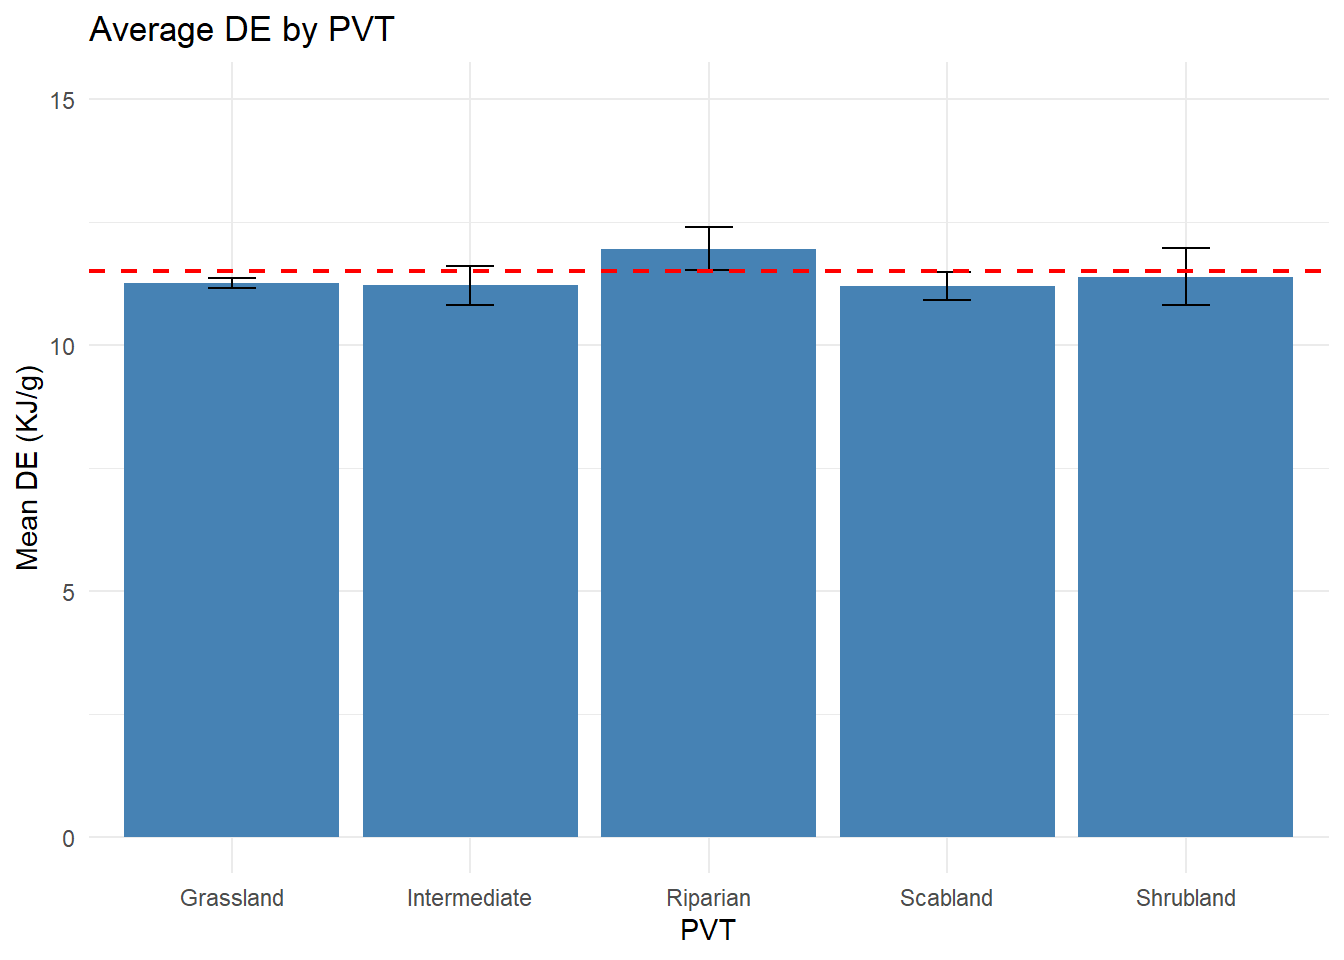
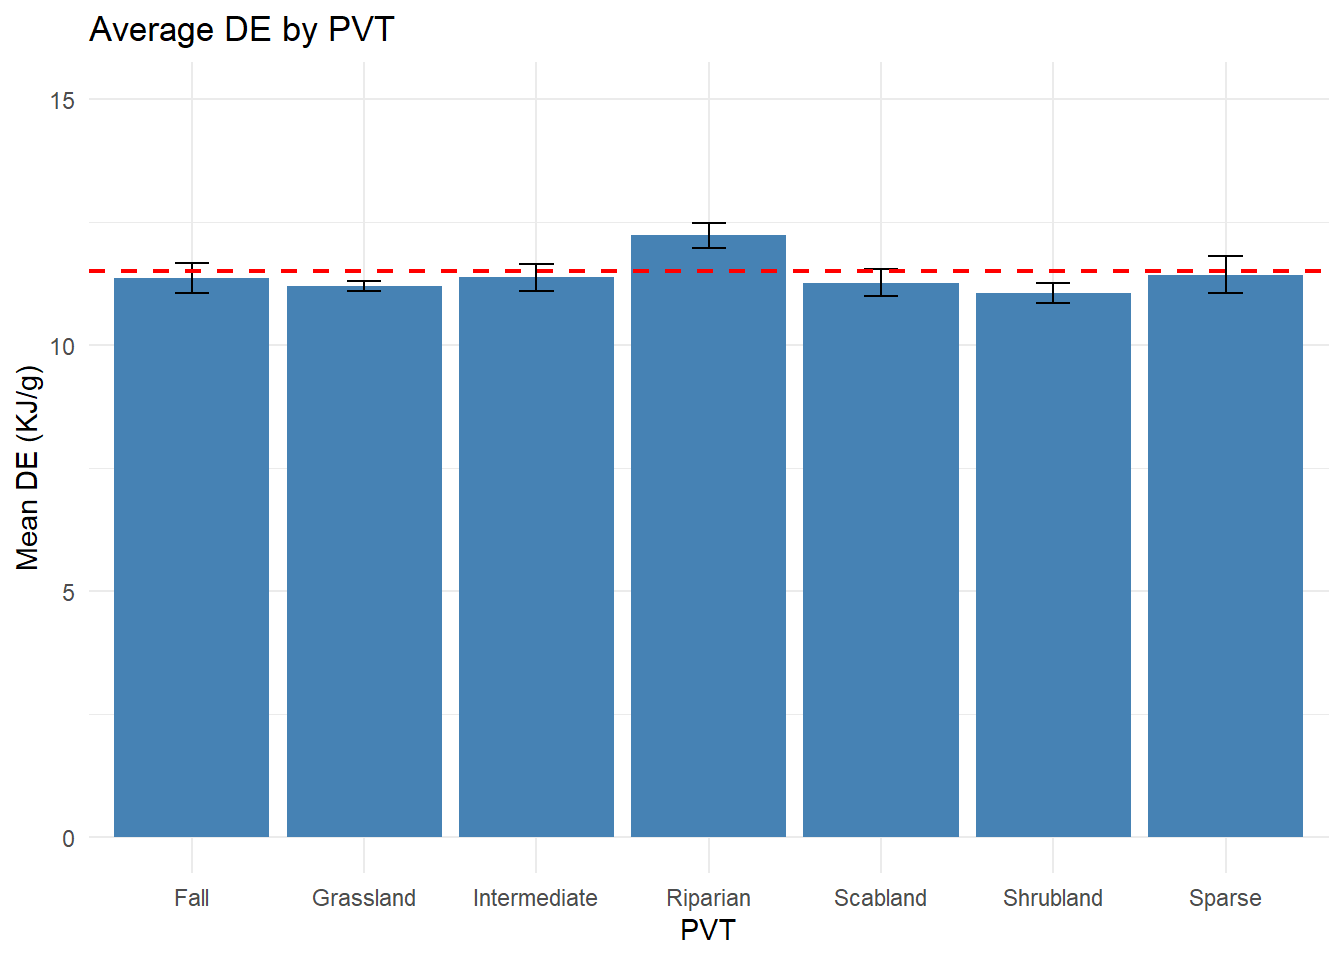
updated with 2025 data

diff --git a/docs/posts/post-with-code/suitable.biomass.plots.html b/docs/posts/post-with-code/suitable.biomass.plots.html
@@ -188,10 +188,10 @@ pre > code.sourceCode > span > a:first-child::before { text-decoration: underlin
 <span id="cb1-3"><a href="#cb1-3" aria-hidden="true" tabindex="-1"></a><span class="fu">library</span>(tidyverse)</span>
 <span id="cb1-4"><a href="#cb1-4" aria-hidden="true" tabindex="-1"></a></span>
 <span id="cb1-5"><a href="#cb1-5" aria-hidden="true" tabindex="-1"></a></span>
-<span id="cb1-6"><a href="#cb1-6" aria-hidden="true" tabindex="-1"></a>r <span class="ot">&lt;-</span> <span class="st">"C:/Users/Alexis Means/Documents/Project/Nutrition Sampling/R code/FRESH/processed.data/2024.results.xlsx"</span></span>
+<span id="cb1-6"><a href="#cb1-6" aria-hidden="true" tabindex="-1"></a>r <span class="ot">&lt;-</span> <span class="st">"C:/Users/Alexis Means/Documents/Project/Nutrition Sampling/R code/FRESH/processed.data/total.results.xlsx"</span></span>
 <span id="cb1-7"><a href="#cb1-7" aria-hidden="true" tabindex="-1"></a></span>
 <span id="cb1-8"><a href="#cb1-8" aria-hidden="true" tabindex="-1"></a>plot.totals <span class="ot">&lt;-</span> <span class="fu">read_excel</span>(r, <span class="st">"Plot-Level-Summary"</span>)</span>
-<span id="cb1-9"><a href="#cb1-9" aria-hidden="true" tabindex="-1"></a>indiv.value <span class="ot">&lt;-</span> <span class="fu">read_excel</span>(r, <span class="st">"2024.Output"</span>)</span></code><button title="Copy to Clipboard" class="code-copy-button"><i class="bi"></i></button></pre></div>
+<span id="cb1-9"><a href="#cb1-9" aria-hidden="true" tabindex="-1"></a>indiv.value <span class="ot">&lt;-</span> <span class="fu">read_excel</span>(r, <span class="st">"Total.Output"</span>)</span></code><button title="Copy to Clipboard" class="code-copy-button"><i class="bi"></i></button></pre></div>
 </details>
 </div>
 <section id="scatterplots" class="level1">
@@ -204,18 +204,23 @@ pre > code.sourceCode > span > a:first-child::before { text-decoration: underlin
 <div class="sourceCode cell-code" id="cb2"><pre class="sourceCode r code-with-copy"><code class="sourceCode r"><span id="cb2-1"><a href="#cb2-1" aria-hidden="true" tabindex="-1"></a><span class="fu">library</span>(lubridate)</span>
 <span id="cb2-2"><a href="#cb2-2" aria-hidden="true" tabindex="-1"></a></span>
 <span id="cb2-3"><a href="#cb2-3" aria-hidden="true" tabindex="-1"></a>plot.totals<span class="sc">$</span>Date <span class="ot">&lt;-</span> <span class="fu">ymd</span>(plot.totals<span class="sc">$</span>Date)</span>
-<span id="cb2-4"><a href="#cb2-4" aria-hidden="true" tabindex="-1"></a></span>
-<span id="cb2-5"><a href="#cb2-5" aria-hidden="true" tabindex="-1"></a><span class="fu">ggplot</span>(plot.totals, <span class="fu">aes</span>(<span class="at">x =</span> Date, <span class="at">y =</span> SuitableBiomass)) <span class="sc">+</span></span>
-<span id="cb2-6"><a href="#cb2-6" aria-hidden="true" tabindex="-1"></a>  <span class="fu">geom_point</span>() <span class="sc">+</span></span>
-<span id="cb2-7"><a href="#cb2-7" aria-hidden="true" tabindex="-1"></a>  <span class="fu">geom_line</span>(<span class="fu">aes</span>(<span class="at">group =</span> TransectID), <span class="at">alpha =</span> <span class="fl">0.4</span>) <span class="sc">+</span></span>
-<span id="cb2-8"><a href="#cb2-8" aria-hidden="true" tabindex="-1"></a>  <span class="fu">facet_wrap</span>(<span class="sc">~</span> PVT) <span class="sc">+</span>  <span class="co"># same y-axis across all panels</span></span>
-<span id="cb2-9"><a href="#cb2-9" aria-hidden="true" tabindex="-1"></a>  <span class="fu">scale_y_continuous</span>(<span class="at">limits =</span> <span class="fu">c</span>(<span class="dv">0</span>, <span class="dv">1000</span>)) <span class="sc">+</span></span>
-<span id="cb2-10"><a href="#cb2-10" aria-hidden="true" tabindex="-1"></a>  <span class="fu">theme_minimal</span>() <span class="sc">+</span></span>
-<span id="cb2-11"><a href="#cb2-11" aria-hidden="true" tabindex="-1"></a>  <span class="fu">labs</span>(</span>
-<span id="cb2-12"><a href="#cb2-12" aria-hidden="true" tabindex="-1"></a>    <span class="at">title =</span> <span class="st">"Suitable Biomass Over Time by PVT"</span>,</span>
-<span id="cb2-13"><a href="#cb2-13" aria-hidden="true" tabindex="-1"></a>    <span class="at">x =</span> <span class="st">"Date"</span>,</span>
-<span id="cb2-14"><a href="#cb2-14" aria-hidden="true" tabindex="-1"></a>    <span class="at">y =</span> <span class="st">"Suitable Biomass (kg/ha)"</span></span>
-<span id="cb2-15"><a href="#cb2-15" aria-hidden="true" tabindex="-1"></a>  )</span></code><button title="Copy to Clipboard" class="code-copy-button"><i class="bi"></i></button></pre></div>
+<span id="cb2-4"><a href="#cb2-4" aria-hidden="true" tabindex="-1"></a>plot.totals<span class="sc">$</span>Julian_Day <span class="ot">&lt;-</span> <span class="fu">yday</span>(plot.totals<span class="sc">$</span>Date)</span>
+<span id="cb2-5"><a href="#cb2-5" aria-hidden="true" tabindex="-1"></a></span>
+<span id="cb2-6"><a href="#cb2-6" aria-hidden="true" tabindex="-1"></a>plot.totals <span class="ot">&lt;-</span> plot.totals <span class="sc">%&gt;%</span> </span>
+<span id="cb2-7"><a href="#cb2-7" aria-hidden="true" tabindex="-1"></a>  <span class="fu">select</span>(<span class="sc">-</span>PVT, <span class="sc">-</span>PVTedit) <span class="sc">%&gt;%</span> </span>
+<span id="cb2-8"><a href="#cb2-8" aria-hidden="true" tabindex="-1"></a>  <span class="fu">rename</span>(<span class="at">PVT =</span> PVT_Observed)</span>
+<span id="cb2-9"><a href="#cb2-9" aria-hidden="true" tabindex="-1"></a></span>
+<span id="cb2-10"><a href="#cb2-10" aria-hidden="true" tabindex="-1"></a><span class="fu">ggplot</span>(plot.totals, <span class="fu">aes</span>(<span class="at">x =</span> Julian_Day, <span class="at">y =</span> SuitableBiomass)) <span class="sc">+</span></span>
+<span id="cb2-11"><a href="#cb2-11" aria-hidden="true" tabindex="-1"></a>  <span class="fu">geom_point</span>() <span class="sc">+</span></span>
+<span id="cb2-12"><a href="#cb2-12" aria-hidden="true" tabindex="-1"></a>  <span class="fu">geom_line</span>(<span class="fu">aes</span>(<span class="at">group =</span> TransectID), <span class="at">alpha =</span> <span class="fl">0.4</span>) <span class="sc">+</span></span>
+<span id="cb2-13"><a href="#cb2-13" aria-hidden="true" tabindex="-1"></a>  <span class="fu">facet_wrap</span>(<span class="sc">~</span> PVT) <span class="sc">+</span>  <span class="co"># same y-axis across all panels</span></span>
+<span id="cb2-14"><a href="#cb2-14" aria-hidden="true" tabindex="-1"></a>  <span class="fu">scale_y_continuous</span>(<span class="at">limits =</span> <span class="fu">c</span>(<span class="dv">0</span>, <span class="dv">1000</span>)) <span class="sc">+</span></span>
+<span id="cb2-15"><a href="#cb2-15" aria-hidden="true" tabindex="-1"></a>  <span class="fu">theme_minimal</span>() <span class="sc">+</span></span>
+<span id="cb2-16"><a href="#cb2-16" aria-hidden="true" tabindex="-1"></a>  <span class="fu">labs</span>(</span>
+<span id="cb2-17"><a href="#cb2-17" aria-hidden="true" tabindex="-1"></a>    <span class="at">title =</span> <span class="st">"Suitable Biomass Over Time by PVT"</span>,</span>
+<span id="cb2-18"><a href="#cb2-18" aria-hidden="true" tabindex="-1"></a>    <span class="at">x =</span> <span class="st">"Date"</span>,</span>
+<span id="cb2-19"><a href="#cb2-19" aria-hidden="true" tabindex="-1"></a>    <span class="at">y =</span> <span class="st">"Suitable Biomass (kg/ha)"</span></span>
+<span id="cb2-20"><a href="#cb2-20" aria-hidden="true" tabindex="-1"></a>  )</span></code><button title="Copy to Clipboard" class="code-copy-button"><i class="bi"></i></button></pre></div>
 </details>
 <div class="cell-output-display">
 <div>
@@ -231,18 +236,17 @@ pre > code.sourceCode > span > a:first-child::before { text-decoration: underlin
 <div class="cell">
 <details class="code-fold">
 <summary>Code</summary>
-<div class="sourceCode cell-code" id="cb3"><pre class="sourceCode r code-with-copy"><code class="sourceCode r"><span id="cb3-1"><a href="#cb3-1" aria-hidden="true" tabindex="-1"></a><span class="fu">ggplot</span>(plot.totals, <span class="fu">aes</span>(<span class="at">x =</span> Date, <span class="at">y =</span> AveDE)) <span class="sc">+</span></span>
+<div class="sourceCode cell-code" id="cb3"><pre class="sourceCode r code-with-copy"><code class="sourceCode r"><span id="cb3-1"><a href="#cb3-1" aria-hidden="true" tabindex="-1"></a><span class="fu">ggplot</span>(plot.totals, <span class="fu">aes</span>(<span class="at">x =</span> Julian_Day, <span class="at">y =</span> AveDE)) <span class="sc">+</span></span>
 <span id="cb3-2"><a href="#cb3-2" aria-hidden="true" tabindex="-1"></a>  <span class="fu">geom_point</span>() <span class="sc">+</span></span>
-<span id="cb3-3"><a href="#cb3-3" aria-hidden="true" tabindex="-1"></a>  <span class="fu">geom_line</span>(<span class="fu">aes</span>(<span class="at">group =</span> TransectID), <span class="at">alpha =</span> <span class="fl">0.4</span>) <span class="sc">+</span></span>
-<span id="cb3-4"><a href="#cb3-4" aria-hidden="true" tabindex="-1"></a>  <span class="fu">geom_hline</span>(<span class="at">yintercept =</span> <span class="fl">11.5</span>, <span class="at">linetype =</span> <span class="st">"dashed"</span>, <span class="at">color =</span> <span class="st">"red"</span>, <span class="at">size =</span> <span class="fl">0.8</span>) <span class="sc">+</span></span>
-<span id="cb3-5"><a href="#cb3-5" aria-hidden="true" tabindex="-1"></a>  <span class="fu">facet_wrap</span>(<span class="sc">~</span> PVT) <span class="sc">+</span>  <span class="co"># same y-axis across all panels</span></span>
-<span id="cb3-6"><a href="#cb3-6" aria-hidden="true" tabindex="-1"></a>  <span class="fu">scale_y_continuous</span>(<span class="at">limits =</span> <span class="fu">c</span>(<span class="dv">9</span>, <span class="dv">14</span>)) <span class="sc">+</span></span>
-<span id="cb3-7"><a href="#cb3-7" aria-hidden="true" tabindex="-1"></a>  <span class="fu">theme_minimal</span>() <span class="sc">+</span></span>
-<span id="cb3-8"><a href="#cb3-8" aria-hidden="true" tabindex="-1"></a>  <span class="fu">labs</span>(</span>
-<span id="cb3-9"><a href="#cb3-9" aria-hidden="true" tabindex="-1"></a>    <span class="at">title =</span> <span class="st">"Average Digestible Energy Over Time by PVT"</span>,</span>
-<span id="cb3-10"><a href="#cb3-10" aria-hidden="true" tabindex="-1"></a>    <span class="at">x =</span> <span class="st">"Date"</span>,</span>
-<span id="cb3-11"><a href="#cb3-11" aria-hidden="true" tabindex="-1"></a>    <span class="at">y =</span> <span class="st">"Average DE (KJ/g)"</span></span>
-<span id="cb3-12"><a href="#cb3-12" aria-hidden="true" tabindex="-1"></a>  )</span></code><button title="Copy to Clipboard" class="code-copy-button"><i class="bi"></i></button></pre></div>
+<span id="cb3-3"><a href="#cb3-3" aria-hidden="true" tabindex="-1"></a>  <span class="fu">geom_hline</span>(<span class="at">yintercept =</span> <span class="fl">11.5</span>, <span class="at">linetype =</span> <span class="st">"dashed"</span>, <span class="at">color =</span> <span class="st">"red"</span>, <span class="at">size =</span> <span class="fl">0.8</span>) <span class="sc">+</span></span>
+<span id="cb3-4"><a href="#cb3-4" aria-hidden="true" tabindex="-1"></a>  <span class="fu">facet_wrap</span>(<span class="sc">~</span> PVT) <span class="sc">+</span>  <span class="co"># same y-axis across all panels</span></span>
+<span id="cb3-5"><a href="#cb3-5" aria-hidden="true" tabindex="-1"></a>  <span class="fu">scale_y_continuous</span>(<span class="at">limits =</span> <span class="fu">c</span>(<span class="dv">9</span>, <span class="dv">14</span>)) <span class="sc">+</span></span>
+<span id="cb3-6"><a href="#cb3-6" aria-hidden="true" tabindex="-1"></a>  <span class="fu">theme_minimal</span>() <span class="sc">+</span></span>
+<span id="cb3-7"><a href="#cb3-7" aria-hidden="true" tabindex="-1"></a>  <span class="fu">labs</span>(</span>
+<span id="cb3-8"><a href="#cb3-8" aria-hidden="true" tabindex="-1"></a>    <span class="at">title =</span> <span class="st">"Average Digestible Energy Over Time by PVT"</span>,</span>
+<span id="cb3-9"><a href="#cb3-9" aria-hidden="true" tabindex="-1"></a>    <span class="at">x =</span> <span class="st">"Date"</span>,</span>
+<span id="cb3-10"><a href="#cb3-10" aria-hidden="true" tabindex="-1"></a>    <span class="at">y =</span> <span class="st">"Average DE (KJ/g)"</span></span>
+<span id="cb3-11"><a href="#cb3-11" aria-hidden="true" tabindex="-1"></a>  )</span></code><button title="Copy to Clipboard" class="code-copy-button"><i class="bi"></i></button></pre></div>
 </details>
 <div class="cell-output-display">
 <div>
@@ -258,18 +262,17 @@ pre > code.sourceCode > span > a:first-child::before { text-decoration: underlin
 <div class="cell">
 <details class="code-fold">
 <summary>Code</summary>
-<div class="sourceCode cell-code" id="cb4"><pre class="sourceCode r code-with-copy"><code class="sourceCode r"><span id="cb4-1"><a href="#cb4-1" aria-hidden="true" tabindex="-1"></a><span class="fu">ggplot</span>(plot.totals, <span class="fu">aes</span>(<span class="at">x =</span> Date, <span class="at">y =</span> AveDP)) <span class="sc">+</span></span>
+<div class="sourceCode cell-code" id="cb4"><pre class="sourceCode r code-with-copy"><code class="sourceCode r"><span id="cb4-1"><a href="#cb4-1" aria-hidden="true" tabindex="-1"></a><span class="fu">ggplot</span>(plot.totals, <span class="fu">aes</span>(<span class="at">x =</span> Julian_Day, <span class="at">y =</span> AveDP)) <span class="sc">+</span></span>
 <span id="cb4-2"><a href="#cb4-2" aria-hidden="true" tabindex="-1"></a>  <span class="fu">geom_point</span>() <span class="sc">+</span></span>
-<span id="cb4-3"><a href="#cb4-3" aria-hidden="true" tabindex="-1"></a>  <span class="fu">geom_line</span>(<span class="fu">aes</span>(<span class="at">group =</span> TransectID), <span class="at">alpha =</span> <span class="fl">0.4</span>) <span class="sc">+</span></span>
-<span id="cb4-4"><a href="#cb4-4" aria-hidden="true" tabindex="-1"></a>  <span class="fu">geom_hline</span>(<span class="at">yintercept =</span> <span class="fl">7.5</span>, <span class="at">linetype =</span> <span class="st">"dashed"</span>, <span class="at">color =</span> <span class="st">"red"</span>, <span class="at">size =</span> <span class="fl">0.8</span>) <span class="sc">+</span></span>
-<span id="cb4-5"><a href="#cb4-5" aria-hidden="true" tabindex="-1"></a>  <span class="fu">facet_wrap</span>(<span class="sc">~</span> PVT) <span class="sc">+</span></span>
-<span id="cb4-6"><a href="#cb4-6" aria-hidden="true" tabindex="-1"></a>  <span class="fu">scale_y_continuous</span>(<span class="at">limits =</span> <span class="fu">c</span>(<span class="dv">2</span>, <span class="dv">16</span>)) <span class="sc">+</span></span>
-<span id="cb4-7"><a href="#cb4-7" aria-hidden="true" tabindex="-1"></a>  <span class="fu">theme_minimal</span>() <span class="sc">+</span></span>
-<span id="cb4-8"><a href="#cb4-8" aria-hidden="true" tabindex="-1"></a>  <span class="fu">labs</span>(</span>
-<span id="cb4-9"><a href="#cb4-9" aria-hidden="true" tabindex="-1"></a>    <span class="at">title =</span> <span class="st">"Average Digestible Protien Over Time by PVT"</span>,</span>
-<span id="cb4-10"><a href="#cb4-10" aria-hidden="true" tabindex="-1"></a>    <span class="at">x =</span> <span class="st">"Date"</span>,</span>
-<span id="cb4-11"><a href="#cb4-11" aria-hidden="true" tabindex="-1"></a>    <span class="at">y =</span> <span class="st">"Average DP (g/100g)"</span></span>
-<span id="cb4-12"><a href="#cb4-12" aria-hidden="true" tabindex="-1"></a>  )</span></code><button title="Copy to Clipboard" class="code-copy-button"><i class="bi"></i></button></pre></div>
+<span id="cb4-3"><a href="#cb4-3" aria-hidden="true" tabindex="-1"></a>  <span class="fu">geom_hline</span>(<span class="at">yintercept =</span> <span class="fl">7.5</span>, <span class="at">linetype =</span> <span class="st">"dashed"</span>, <span class="at">color =</span> <span class="st">"red"</span>, <span class="at">size =</span> <span class="fl">0.8</span>) <span class="sc">+</span></span>
+<span id="cb4-4"><a href="#cb4-4" aria-hidden="true" tabindex="-1"></a>  <span class="fu">facet_wrap</span>(<span class="sc">~</span> PVT) <span class="sc">+</span></span>
+<span id="cb4-5"><a href="#cb4-5" aria-hidden="true" tabindex="-1"></a>  <span class="fu">scale_y_continuous</span>(<span class="at">limits =</span> <span class="fu">c</span>(<span class="dv">2</span>, <span class="dv">16</span>)) <span class="sc">+</span></span>
+<span id="cb4-6"><a href="#cb4-6" aria-hidden="true" tabindex="-1"></a>  <span class="fu">theme_minimal</span>() <span class="sc">+</span></span>
+<span id="cb4-7"><a href="#cb4-7" aria-hidden="true" tabindex="-1"></a>  <span class="fu">labs</span>(</span>
+<span id="cb4-8"><a href="#cb4-8" aria-hidden="true" tabindex="-1"></a>    <span class="at">title =</span> <span class="st">"Average Digestible Protien Over Time by PVT"</span>,</span>
+<span id="cb4-9"><a href="#cb4-9" aria-hidden="true" tabindex="-1"></a>    <span class="at">x =</span> <span class="st">"Date"</span>,</span>
+<span id="cb4-10"><a href="#cb4-10" aria-hidden="true" tabindex="-1"></a>    <span class="at">y =</span> <span class="st">"Average DP (g/100g)"</span></span>
+<span id="cb4-11"><a href="#cb4-11" aria-hidden="true" tabindex="-1"></a>  )</span></code><button title="Copy to Clipboard" class="code-copy-button"><i class="bi"></i></button></pre></div>
 </details>
 <div class="cell-output-display">
 <div>

diff --git a/docs/index.html b/docs/index.html
@@ -206,7 +206,7 @@ window.Quarto = {
 
 <div class="quarto-listing quarto-listing-container-default" id="listing-listing">
 <div class="list quarto-listing-default">
-<div class="quarto-post image-right" data-index="0" data-listing-file-modified-sort="1764983241621" data-listing-reading-time-sort="4" data-listing-word-count-sort="699">
+<div class="quarto-post image-right" data-index="0" data-listing-file-modified-sort="1769712584426" data-listing-reading-time-sort="4" data-listing-word-count-sort="698">
 <div class="thumbnail"><a href="./posts/post-with-code/suitable.biomass.plots.html" class="no-external">
 
 <p class="card-img-top"><img src="posts\post-with-code\suitable.biomass.plots_files\figure-html\unnamed-chunk-2-1.png"  class="thumbnail-image card-img"/></p>
@@ -228,9 +228,9 @@ window.Quarto = {
 <span id="cb1-3"><span class="fu">library</span>(tidyverse)</span>
 <span id="cb1-4"></span>
 <span id="cb1-5"></span>
-<span id="cb1-6">r <span class="ot">&lt;-</span> <span class="st">"C:/Users/Alexis Means/Documents/Project/Nutrition Sampling/R code/FRESH/processed.data/2024.results.xlsx"</span></span>
+<span id="cb1-6">r <span class="ot">&lt;-</span> <span class="st">"C:/Users/Alexis Means/Documents/Project/Nutrition Sampling/R code/FRESH/processed.data/total.results.xlsx"</span></span>
 <span id="cb1-7"></span>
-<span id="cb1-8">pl…<span class="ot"></span><span class="fu"></span><span class="st"></span></span><span id="cb1-9"><span class="ot"></span><span class="fu"></span><span class="st"></span></span></code></pre></div></details>
+<span id="cb1-8">p…<span class="ot"></span><span class="fu"></span><span class="st"></span></span><span id="cb1-9"><span class="ot"></span><span class="fu"></span><span class="st"></span></span></code></pre></div></details>
 </a></div>
 </div>
 <div class="metadata">
